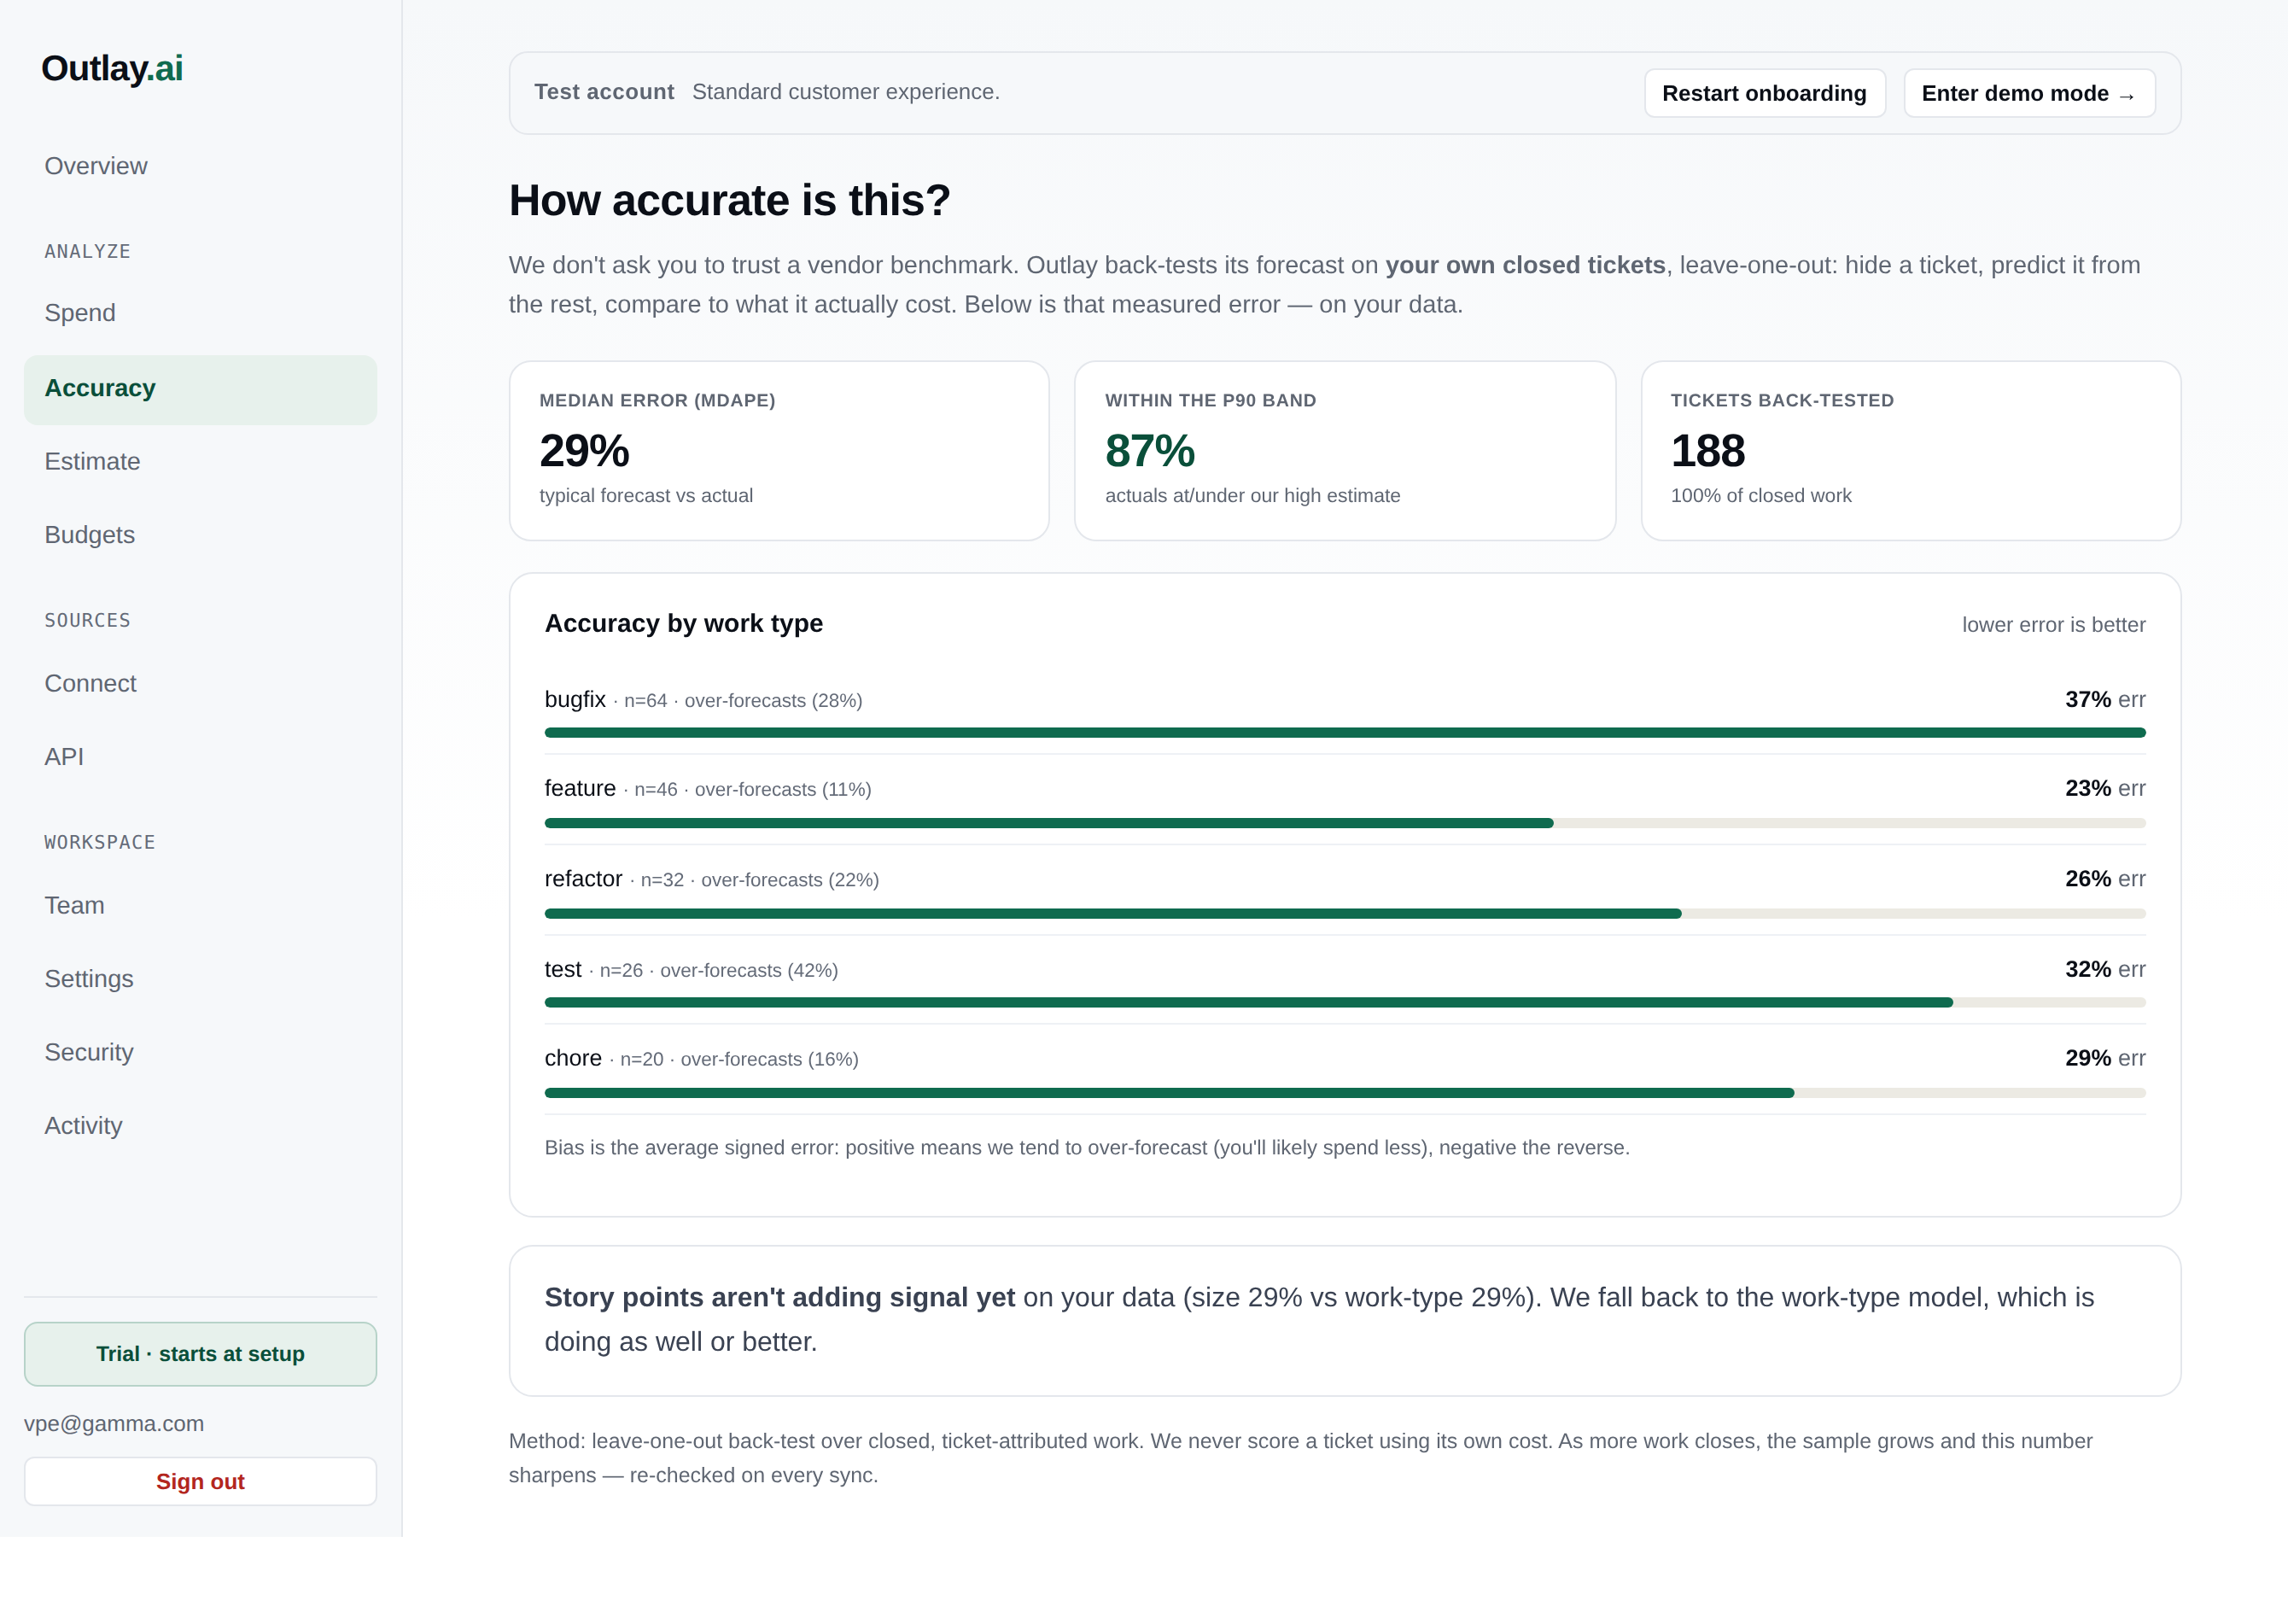
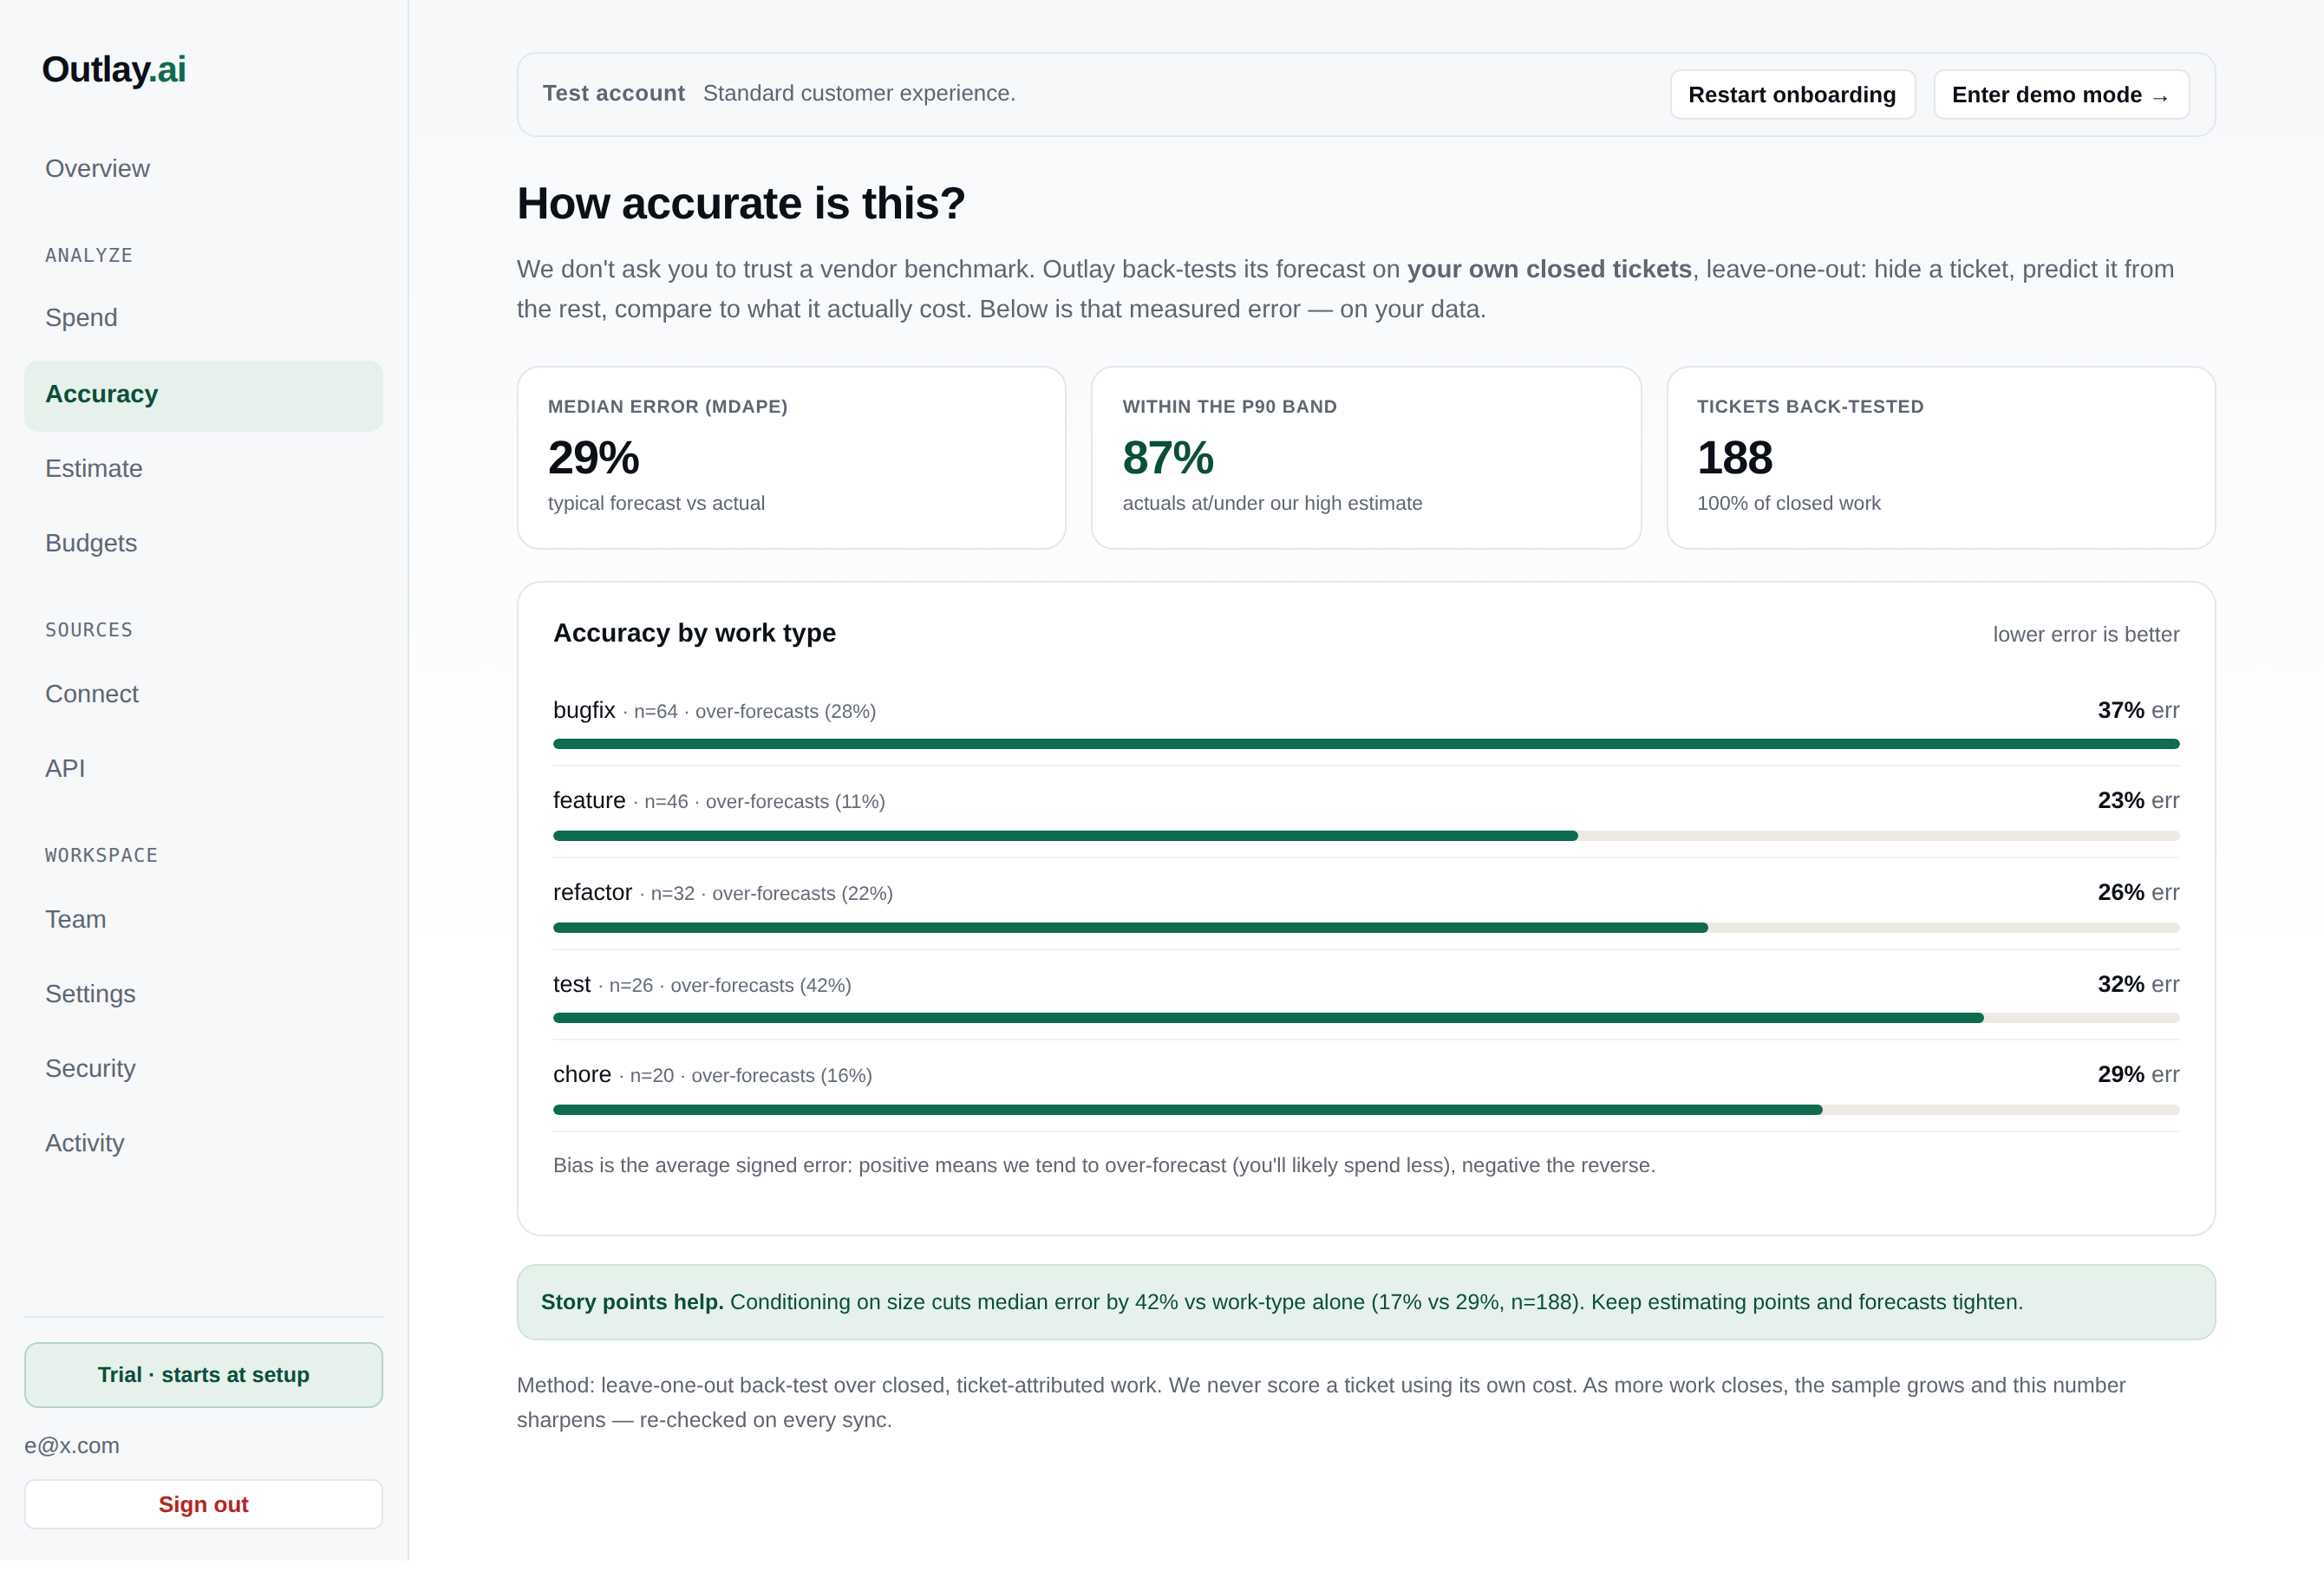
Demo: size-conditioning visibly wins in the sample data; verify marketing site
8. Demo tickets now carry low-noise story points that track effort, so the
   Accuracy page's leave-one-out back-test shows size-conditioning actually
   sharpening the forecast — "Story points help: cuts median error 42% (17% vs
   29%, n=188)" — instead of "not adding signal yet". Showcases the
   size-conditioned forecasting feature in the demo.
9. Audited + rendered the separate marketing site (modelpilot/site/): it's
   already comprehensive and on-message, so no changes — recorded the finding in
   the walkthrough doc.

Updates the accuracy screenshot + doc.

Claude-Session: https://claude.ai/code/session_01Mev79UpmJmZS58W3eyakhL

diff --git a/outlay/fixtures/gen_demo.py b/outlay/fixtures/gen_demo.py
@@ -88,9 +88,11 @@ def _fib(x: float) -> int:
 
 
 def _points(rng: random.Random, mean_turns: int) -> int:
-    """A story-point estimate that loosely tracks effort (so the size model learns a
-    real points→cost slope, and planned work prices at high confidence)."""
-    return _fib(rng.lognormvariate(0, 0.4) * mean_turns / 3.0)
+    """A story-point estimate that tracks effort closely (low noise), so the size
+    model learns a real points→cost slope and *beats* the work-type mean in the
+    accuracy back-test — the demo shows size-conditioning actually sharpening the
+    forecast, not just matching."""
+    return _fib(rng.lognormvariate(0, 0.12) * mean_turns / 3.0)
 
 
 def _ts(days_ago: float, hour: int) -> str:

diff --git a/docs/product-walkthrough.md b/docs/product-walkthrough.md
@@ -27,6 +27,17 @@ screen-by-screen customer flow for **each persona** (Finance and Engineering).*
 > 7. **Connect page lightened** with progressive disclosure — the primary flow is
 >    tracker → AI usage → sync; identity-mapping and Slack collapse under "Optional —
 >    refine after your first sync."
+>
+> **Review round 3 — deeper polish:**
+> 8. **Size-conditioning now visibly wins in the demo** — demo tickets carry clean
+>    story points, so the Accuracy page shows "Story points help" (cuts median error
+>    42% — 17% vs 29%), demonstrating the size-conditioned forecasting feature instead
+>    of "not adding signal yet."
+> 9. **Marketing site (outlay-ai.com) verified** — the static site at `modelpilot/site/`
+>    (8 pages + 6 legal pages, 10-provider strip) was audited and rendered: it's already
+>    comprehensive, on-message, and production-ready. No changes made (legal pages are
+>    intentionally counsel-pending drafts). It is richer than the console `/` landing,
+>    which is the app-domain root and now consistent with it.
 
 **Status of this audit:** A live end-to-end smoke test was run against the actual
 app (FastAPI test client driving real routes). **54 of 55 checks passed**; the one
@@ -357,6 +368,10 @@ Finance does not see Connect or API.)*
 - KPIs: **Median error (MdAPE)** · **Within the p90 band** · **Tickets back-tested** —
   the leave-one-out calibration on the team's own closed tickets, plus **Accuracy by
   work type**. This is what makes the forecast credible.
+- **Size-conditioning callout** — when story points sharpen the estimate, a green
+  "**Story points help**" card quantifies it (e.g. *cuts median error by 42% vs
+  work-type alone — 17% vs 29%, n=188*). When they don't, it says so honestly and falls
+  back to the work-type model. Either way it shows the measured numbers.
 
 ### E8 · Estimate your backlog (`/app/outlay/estimate`)
 